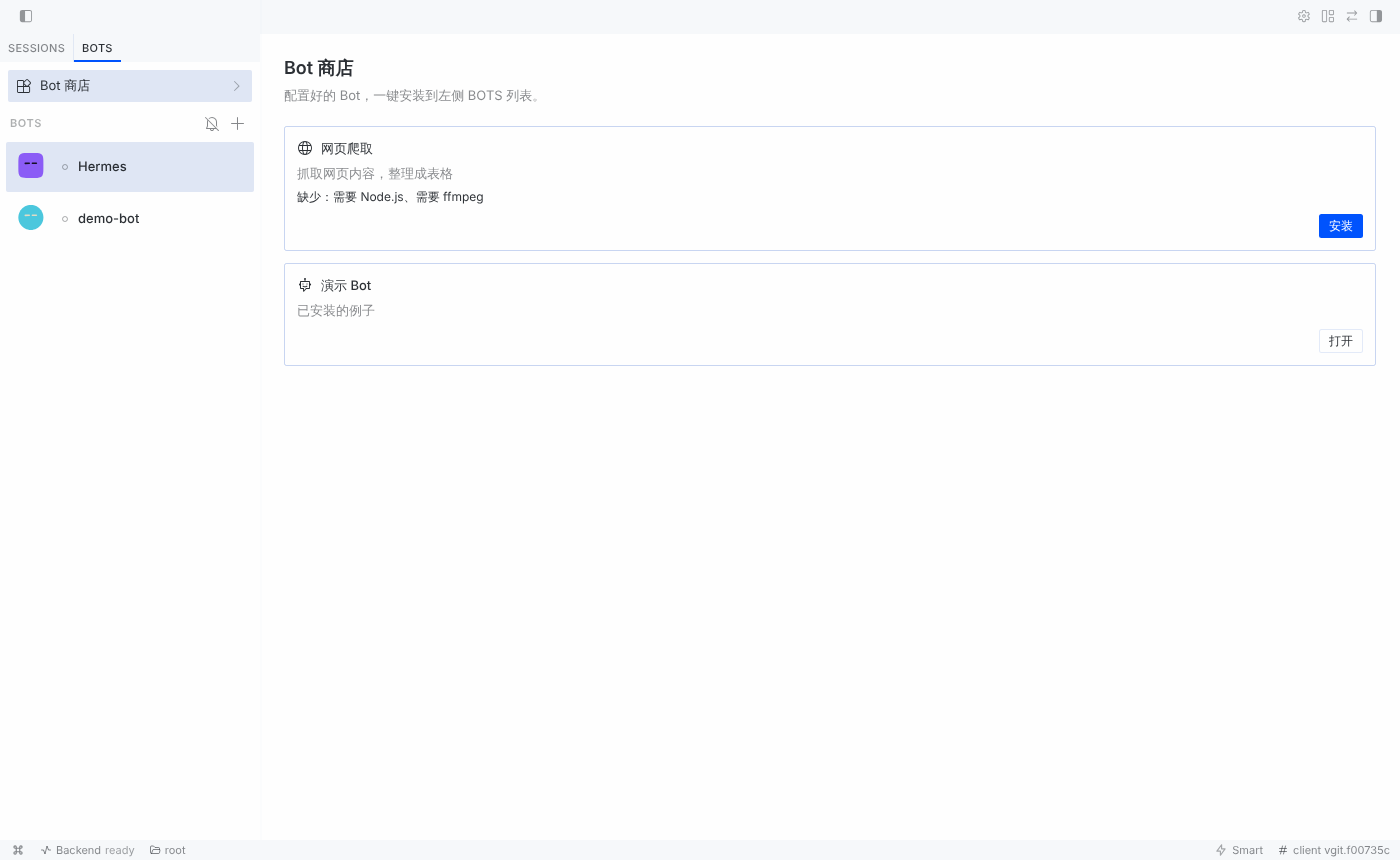
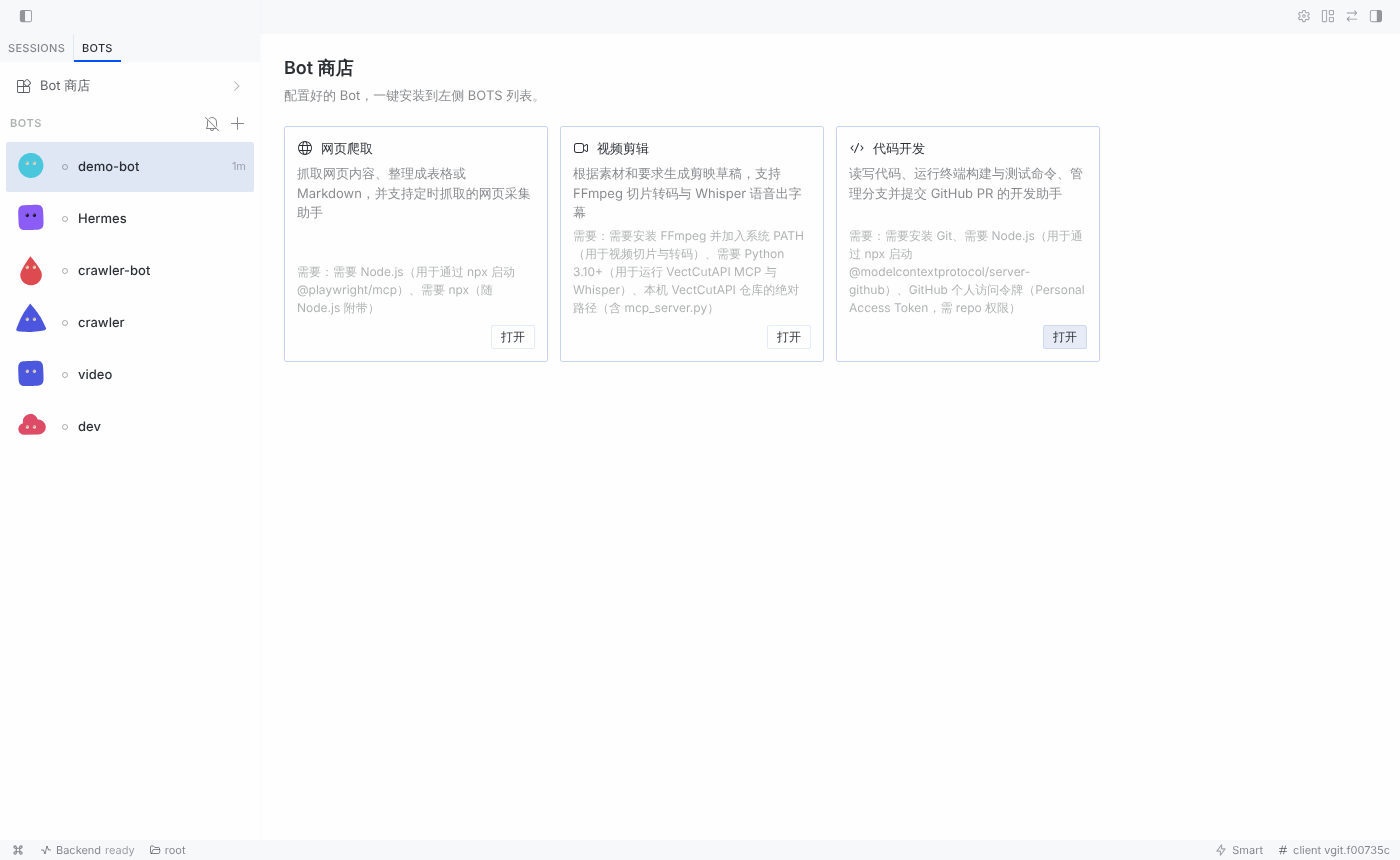
Bots plus: expandable per-bot conversation list
Each bot row expands to its pinned Bot Chat, its other sessions (stored + live,
including ones hidden by the bots workspace) and a new-chat action. The canonical
Bot Chat contract is untouched.

Claude-Session: https://claude.ai/code/session_01LvN8EQXNfnKiqgmSJzADXH

diff --git a/bot-store/src/sessions/bot-sessions.tsx b/bot-store/src/sessions/bot-sessions.tsx
@@ -1,0 +1,202 @@
+import * as sdk from '@hermes/plugin-sdk'
+import { cn, Codicon, haptic, host, type SessionListRow, Tip, useQuery } from '@hermes/plugin-sdk'
+
+import { saveSelectedRosterBot } from '@official-bots/bot-state'
+import { CANONICAL_CHAT_TITLE, prepareBotSource, resolveExpectHistory } from '@official-bots/canonical-chat'
+import { newBotChat } from '@official-bots/data'
+import { openRosterBot } from '@official-bots/roster-actions'
+import {
+  backendTargetProfile,
+  botConnectionRoute,
+  botWorkspaceOwnerKey,
+  requestForBot,
+  setBotsWorkspaceOwner
+} from '@official-bots/routing'
+import type { RosterRow } from '@official-bots/types'
+
+const LIST_LIMIT = 50
+
+/** 展开/收起按钮：放在 Bot 行左侧头像前的空白处（右侧有时间标签），悬停或展开时显示。 */
+export function SessionsToggle({ open, onToggle }: { open: boolean; onToggle: () => void }) {
+  return (
+    <Tip label={open ? '收起对话' : '展开对话'}>
+      <button
+        aria-expanded={open}
+        aria-label={open ? '收起对话' : '展开对话'}
+        className={cn(
+          'absolute z-10 grid place-items-center rounded',
+          'text-(--ui-text-tertiary) hover:bg-(--ui-bg-tertiary) hover:text-foreground',
+          open ? 'opacity-100' : 'opacity-0 group-hover/bot-plus:opacity-100 focus-visible:opacity-100'
+        )}
+        onClick={event => {
+          event.stopPropagation()
+          onToggle()
+        }}
+        style={{ top: 17, left: 0, width: 14, height: 16, fontSize: 11 }}
+        type="button"
+      >
+        <Codicon className={cn('transition-transform duration-150', open && 'rotate-90')} name="chevron-right" />
+      </button>
+    </Tip>
+  )
+}
+
+/** 该 Bot 的会话列表：固定对话置顶，其余按时间倒序；底部“新对话”。 */
+export function BotSessions({ bot }: { bot: RosterRow }) {
+  const query = useQuery({
+    queryKey: ['hermes-bots-plus', 'sessions', bot.name, botConnectionRoute(bot)?.connectionId || ''],
+    queryFn: () => listBotSessions(bot),
+    refetchInterval: 10_000,
+    staleTime: 5_000
+  })
+
+  const sessions = query.data || []
+
+  return (
+    <div className="mb-1 flex flex-col border-l border-(--ui-stroke-tertiary) pl-2" style={{ marginLeft: 44, marginRight: 8 }}>
+      <SessionLine icon="pinned" onClick={() => void openRosterBot(bot)} title="固定对话" />
+      {query.isLoading ? <p className="px-2 py-1 text-[0.75rem] text-(--ui-text-quaternary)">加载中…</p> : null}
+      {query.error ? <p className="px-2 py-1 text-[0.75rem] text-(--ui-warning)">读取对话失败</p> : null}
+      {sessions.map(row => (
+        <SessionLine
+          key={row.id}
+          meta={relativeTime(row.started_at)}
+          onClick={() => void openBotSession(bot, row)}
+          title={row.title || row.preview || '未命名对话'}
+        />
+      ))}
+      <SessionLine
+        icon="add"
+        muted
+        onClick={() => {
+          saveSelectedRosterBot(bot)
+          setBotsWorkspaceOwner(botWorkspaceOwnerKey(bot), bot)
+          newBotChat(bot)
+        }}
+        title="新对话"
+      />
+    </div>
+  )
+}
+
+function SessionLine({ icon = 'comment', meta, muted, onClick, title }: {
+  icon?: string
+  meta?: string
+  muted?: boolean
+  onClick: () => void
+  title: string
+}) {
+  return (
+    <button
+      className={cn(
+        'flex h-7 items-center gap-1.5 rounded-md px-2 text-left text-[0.78125rem]',
+        'hover:bg-(--ui-bg-tertiary) transition-colors',
+        muted ? 'text-(--ui-text-tertiary)' : 'text-(--ui-text-secondary)'
+      )}
+      onClick={onClick}
+      title={title}
+      type="button"
+    >
+      <Codicon className="shrink-0 text-(--ui-text-quaternary)" name={icon} />
+      <span className="min-w-0 flex-1 truncate">{title}</span>
+      {meta ? <span className="shrink-0 text-[0.6875rem] text-(--ui-text-quaternary)">{meta}</span> : null}
+    </button>
+  )
+}
+
+/** 官方 session.list（stored）返回的行：比 SessionListRow 多一个 session_id。 */
+type BotSessionRow = SessionListRow & { session_id?: string }
+
+async function listBotSessions(bot: RosterRow): Promise<BotSessionRow[]> {
+  const route = botConnectionRoute(bot)
+  const profile = backendTargetProfile(route, bot.name)
+
+  // stored = 历史会话，live = 当前正在打开/运行的会话；两者互不包含，要合并
+  const fetchScope = (scope: 'live' | 'stored') =>
+    requestForBot<{ sessions?: BotSessionRow[] }>(bot, 'session.list', {
+      profile,
+      scope,
+      // 在 Bot 工作区打开过的会话会被标为隐藏（不进主会话列表），这里要把它们也列出来
+      include_hidden: true,
+      limit: LIST_LIMIT
+    }).then(res => res?.sessions || [])
+
+  const [stored, live] = await Promise.all([fetchScope('stored'), fetchScope('live').catch(() => [])])
+  const byId = new Map<string, BotSessionRow>()
+
+  for (const row of [...live, ...stored]) {
+    const id = row.session_id || row.id
+
+    if (id && !byId.has(id)) {
+      byId.set(id, row)
+    }
+  }
+
+  // 去掉 Bot 模式自己的“管道”会话：固定对话、收件箱、群聊成员会话（与官方 session-sweep 的规则一致）
+  return [...byId.values()]
+    .filter(row => !isPlumbingTitle(row.title))
+    .sort((a, b) => (b.started_at || 0) - (a.started_at || 0))
+}
+
+function isPlumbingTitle(title?: null | string): boolean {
+  const t = String(title || '').trim()
+
+  return t === CANONICAL_CHAT_TITLE || t === 'Agent Inbox' || t.startsWith('Group: ')
+}
+
+/** 在 Bot 的工作区里以新标签打开某条会话（与官方“Open recent session”同一套参数）。 */
+async function openBotSession(bot: RosterRow, row: BotSessionRow): Promise<void> {
+  const sessionId = row.session_id || row.id
+
+  if (typeof host.openSession !== 'function') {
+    void openRosterBot(bot)
+
+    return
+  }
+
+  haptic('tap')
+  saveSelectedRosterBot(bot)
+  const ownerKey = botWorkspaceOwnerKey(bot)
+  setBotsWorkspaceOwner(ownerKey, bot)
+
+  try {
+    await prepareBotSource(bot)
+    const route = botConnectionRoute(bot)
+
+    await host.openSession(sessionId, {
+      ...(route ? { route } : {}),
+      profile: bot.name,
+      intent: 'tab',
+      awaitHydration: true,
+      expectHistory: resolveExpectHistory(row),
+      forceResume: true,
+      hydrationTimeoutMs: Number.isFinite(sdk.BOT_CHAT_SESSION_HYDRATION_TIMEOUT_MS)
+        ? sdk.BOT_CHAT_SESSION_HYDRATION_TIMEOUT_MS
+        : 60_000,
+      keepAllProfilesScope: true,
+      workspaceMode: 'bots',
+      workspaceOwnerKey: ownerKey,
+      retryHydrationTimeoutOnce: true
+    })
+  } catch (error) {
+    host.notifyError?.(error, '打开对话失败')
+  }
+}
+
+function relativeTime(seconds?: number): string {
+  if (!seconds) {
+    return ''
+  }
+
+  const diff = Date.now() / 1000 - seconds
+
+  if (diff < 3600) {
+    return `${Math.max(1, Math.round(diff / 60))} 分钟`
+  }
+
+  if (diff < 86_400) {
+    return `${Math.round(diff / 3600)} 小时`
+  }
+
+  return `${Math.round(diff / 86_400)} 天`
+}

diff --git a/bot-store/src/bot-row.tsx b/bot-store/src/bot-row.tsx
@@ -1,0 +1,27 @@
+// 替换官方 bot-row：每个 Bot 行下面可以展开它的多个对话。
+// 固定对话（标题为 “Bot Chat” 的那条）规则不动：点 Bot 行照旧打开它；展开列表里它固定置顶。
+import { BotRow as OfficialBotRow } from '@official-bots/bot-row'
+import { useState } from 'react'
+
+import { BotSessions, SessionsToggle } from './sessions/bot-sessions'
+import { isExpanded, setExpanded } from './sessions/expanded'
+
+export * from '@official-bots/bot-row'
+
+export function BotRow(props: Parameters<typeof OfficialBotRow>[0]) {
+  const name = props.bot.name
+  const [open, setOpen] = useState(() => isExpanded(name))
+
+  const toggle = () => {
+    setExpanded(name, !open)
+    setOpen(!open)
+  }
+
+  return (
+    <div className="group/bot-plus relative">
+      <OfficialBotRow {...props} />
+      <SessionsToggle onToggle={toggle} open={open} />
+      {open ? <BotSessions bot={props.bot} /> : null}
+    </div>
+  )
+}

diff --git a/bot-store/src/sessions/expanded.ts b/bot-store/src/sessions/expanded.ts
@@ -1,0 +1,30 @@
+// 记住哪些 Bot 是展开的（只存在本机浏览器存储里，丢了也无妨）。
+const KEY = 'hermes-bots-plus.expanded'
+
+function read(): Set<string> {
+  try {
+    return new Set(JSON.parse(window.localStorage.getItem(KEY) || '[]'))
+  } catch {
+    return new Set()
+  }
+}
+
+export function isExpanded(name: string): boolean {
+  return read().has(name)
+}
+
+export function setExpanded(name: string, open: boolean) {
+  const set = read()
+
+  if (open) {
+    set.add(name)
+  } else {
+    set.delete(name)
+  }
+
+  try {
+    window.localStorage.setItem(KEY, JSON.stringify([...set]))
+  } catch {
+    // 存不了就只在本次生效
+  }
+}

diff --git a/bot-store/src/store/StorePage.tsx b/bot-store/src/store/StorePage.tsx
@@ -18,7 +18,7 @@ export function StorePage({ items, loading, loadError, installState, onInstall, 
         </div>
       ) : null}
 
-      <div className="mt-5 grid grid-cols-[repeat(auto-fill,minmax(240px,1fr))] gap-3">
+      <div className="mt-5 grid gap-3" style={{ gridTemplateColumns: "repeat(auto-fill, minmax(240px, 1fr))" }}>
         {loading
           ? [0, 1, 2].map(i => <Skeleton className="h-28 rounded-lg" key={i} />)
           : items.map(item => (
